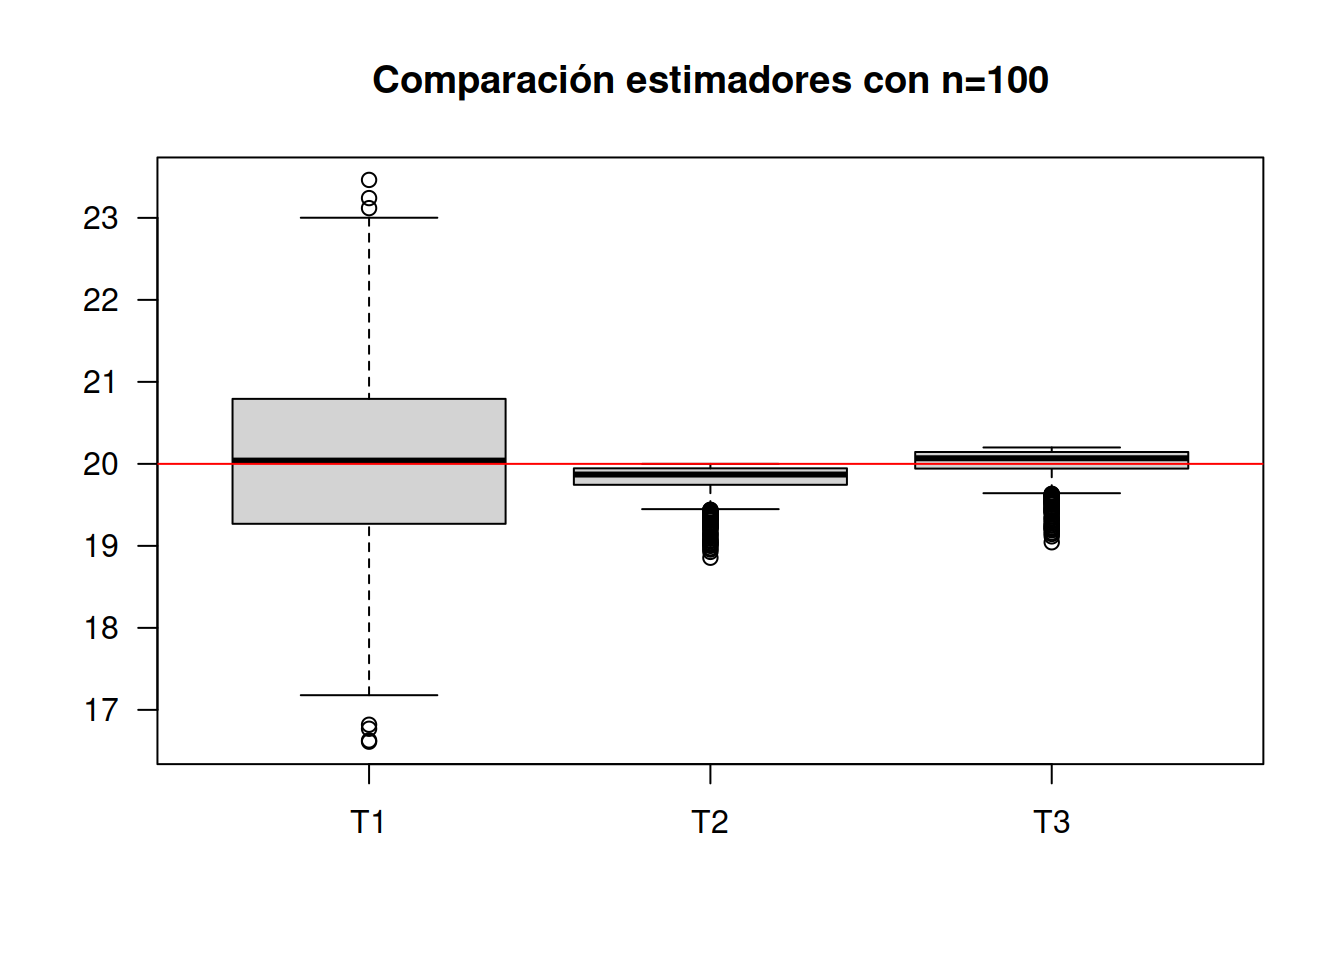
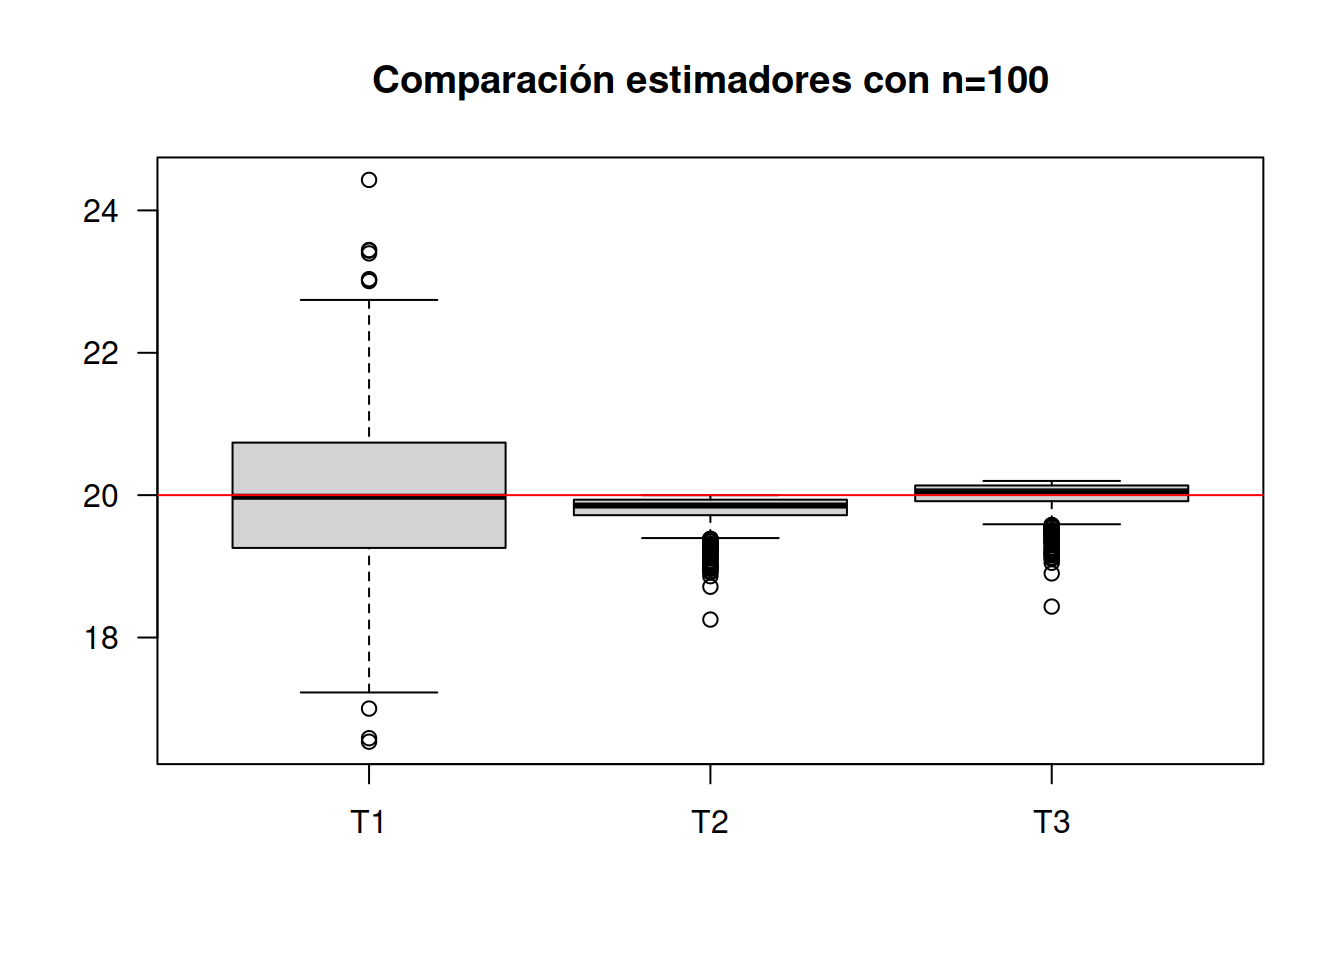
ajustes unidad3

diff --git a/docs/recurso231.html b/docs/recurso231.html
@@ -454,7 +454,7 @@ dbinom(1,n,p)# Función de masa</code></pre>
 <pre class="r"><code>qbinom(0.5,n,p) # Cuantiles</code></pre>
 <pre><code>[1] 5</code></pre>
 <pre class="r"><code>rbinom(10,n,p) #Números aleatorios</code></pre>
-<pre><code> [1] 6 6 9 4 3 8 5 4 6 4</code></pre>
+<pre><code> [1] 4 7 5 4 6 6 6 6 8 7</code></pre>
 <p><br/><br/></p>
 <pre class="r"><code>par(mfrow=c(2,2))
 plot(1:10,dbinom(1:10,n,p),pch=19,panel.first=grid(),main=&quot;Distribución binomial con p=0.5&quot;)
@@ -586,8 +586,8 @@ dnorm(1,mu,sigma)# Función de densidad</code></pre>
 <pre class="r"><code>qnorm(0.5,mu,sigma) # Cuantiles</code></pre>
 <pre><code>[1] 10</code></pre>
 <pre class="r"><code>rnorm(10,mu,sigma) #Números aleatorios</code></pre>
-<pre><code> [1] 10.000271  9.546160  9.564748  9.483085  9.612633  9.875370  9.683975
- [8] 10.318294  9.309936  9.638661</code></pre>
+<pre><code> [1] 10.304658 10.468928 10.139588 10.302896 10.027847 10.290429  9.485101
+ [8]  9.418410  9.375392  9.798256</code></pre>
 <p><br/><br/></p>
 <pre class="r"><code># Gráfico función de densidad con diferente media
 curve(dnorm(x,mu,sigma),xlim=c(0,20),ylab=&quot;Density&quot;)

diff --git a/docs/recurso331.html b/docs/recurso331.html
@@ -697,7 +697,7 @@ abline(h=20,  col=&quot;red&quot;)</code></pre>
 <p><img src="recurso331_files/figure-html/unnamed-chunk-4-1.png" width="672" /></p>
 <pre class="r"><code>apply(T123,2,mean)</code></pre>
 <pre><code>      T1       T2       T3 
-20.06013 18.24049 20.06454 </code></pre>
+19.79243 18.10229 19.91252 </code></pre>
 <p><br/><br/></p>
 <p>Para un tamaño de muestra <span class="math inline">\(n=10\)</span>
 se observa que los mejores resultados se obtienen con <span
@@ -719,7 +719,7 @@ abline(h=20,  col=&quot;red&quot;)</code></pre>
 <p><img src="recurso331_files/figure-html/unnamed-chunk-5-1.png" width="672" /></p>
 <pre class="r"><code>apply(T123,2,mean)</code></pre>
 <pre><code>      T1       T2       T3 
-20.03161 19.80814 20.00622 </code></pre>
+20.00778 19.78944 19.98733 </code></pre>
 <p>Los resutados indican que el mejor estimador de <span
 class="math inline">\(b\)</span> corresponde a <span
 class="math inline">\(T3\)</span>. Sin embargo el estimador <span
